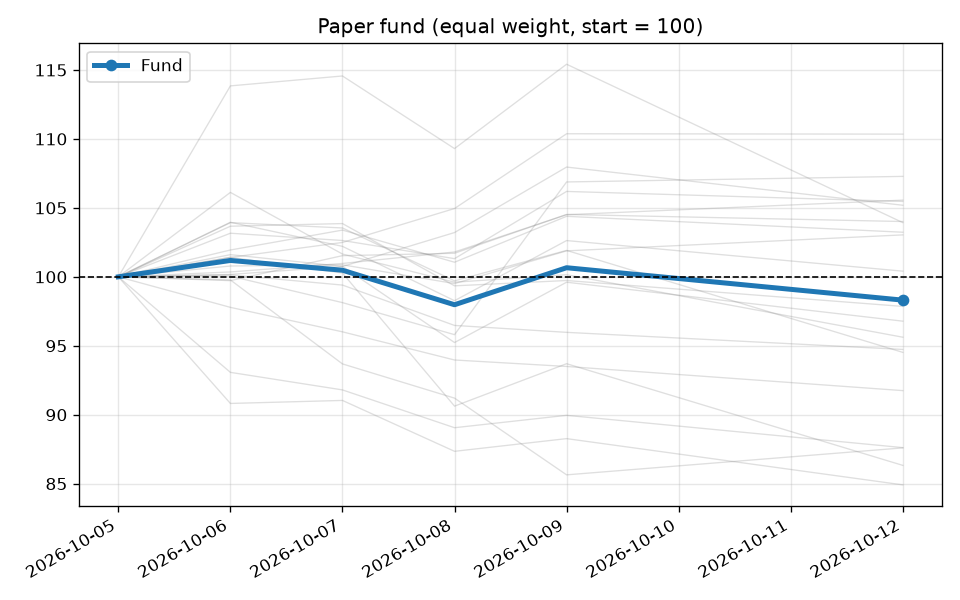
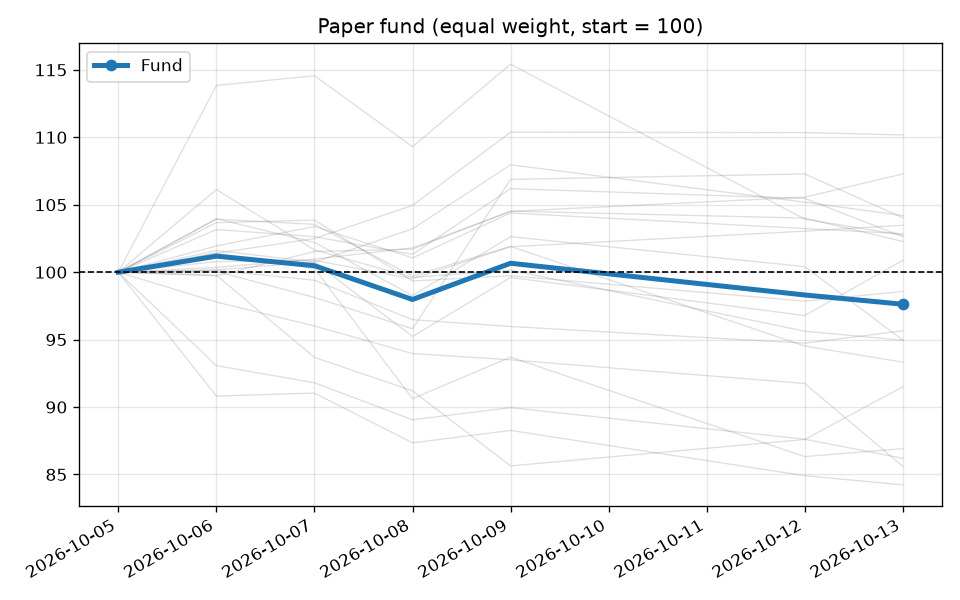
Update fund 2026-10-14

diff --git a/README.md b/README.md
@@ -2,55 +2,55 @@
 
 ![chart](fund_chart.png)
 
-**Fund value: 98.31** (as of 2026-10-12, start = 100)
+**Fund value: 97.62** (as of 2026-10-13, start = 100)
 
 | Period | Return |
 |---|---|
-| 1 day | -2.33% |
-| 1 week | -1.69% |
-| Since start | -1.69% |
+| 1 day | -0.70% |
+| 1 week | -3.52% |
+| Since start | -2.38% |
 
 **Best 3 since start**
 
-- PLTR: +10.35%
-- HUM: +7.28%
-- MA: +5.56%
+- PLTR: +10.17%
+- MA: +7.28%
+- AFRM: +4.20%
 
 **Worst 3 since start**
 
-- STX: -15.09%
-- COHR: -13.67%
-- CNH: -12.41%
+- STX: -15.77%
+- AMAT: -14.39%
+- WDC: -13.80%
 
 ## Revolut forecast vs actual
 
 Forecast snapshot from 2026-10-05. Horizon not stated by Revolut; assumed 12 months.
 
 - Fund promised: **+37.25%** in 12 months
-- Pro-rated for 7 days (capped at 12 months): +0.71%
-- Actual so far: **-1.69%**
+- Pro-rated for 8 days (capped at 12 months): +0.82%
+- Actual so far: **-2.38%**
 
 | Stock | Promised | Actual |
 |---|---|---|
-| PLTR | +30.42% | +10.35% |
-| HUM | +48.65% | +7.28% |
-| MA | +31.18% | +5.56% |
-| NU | +33.48% | +5.47% |
-| AFRM | +34.11% | +5.19% |
-| GILD | +28.18% | +4.01% |
-| CIEN | +41.51% | +3.93% |
-| AMZN | +30.67% | +3.23% |
-| MSFT | +29.90% | +3.04% |
-| FLEX | +29.57% | +0.41% |
-| AVGO | +56.39% | -2.15% |
-| ORCL | +34.94% | -3.22% |
-| FIX | +28.46% | -4.38% |
-| NVDA | +56.21% | -5.27% |
-| CRDO | +28.09% | -5.48% |
-| AMAT | +33.81% | -8.25% |
-| WDC | +48.84% | -12.39% |
-| CNH | +29.83% | -12.41% |
-| COHR | +34.52% | -13.67% |
-| STX | +56.29% | -15.09% |
+| PLTR | +30.42% | +10.17% |
+| MA | +31.18% | +7.28% |
+| AFRM | +34.11% | +4.20% |
+| HUM | +48.65% | +4.04% |
+| MSFT | +29.90% | +3.48% |
+| AMZN | +30.67% | +2.86% |
+| CIEN | +41.51% | +2.75% |
+| NU | +33.48% | +2.64% |
+| GILD | +28.18% | +2.27% |
+| ORCL | +34.94% | +0.88% |
+| AVGO | +56.39% | -1.43% |
+| NVDA | +56.21% | -4.34% |
+| FLEX | +29.57% | -5.04% |
+| FIX | +28.46% | -5.05% |
+| CRDO | +28.09% | -6.67% |
+| CNH | +29.83% | -8.50% |
+| COHR | +34.52% | -13.09% |
+| WDC | +48.84% | -13.80% |
+| AMAT | +33.81% | -14.39% |
+| STX | +56.29% | -15.77% |
 
 _Imaginary equal-weight buy-and-hold fund, not a real investment._
